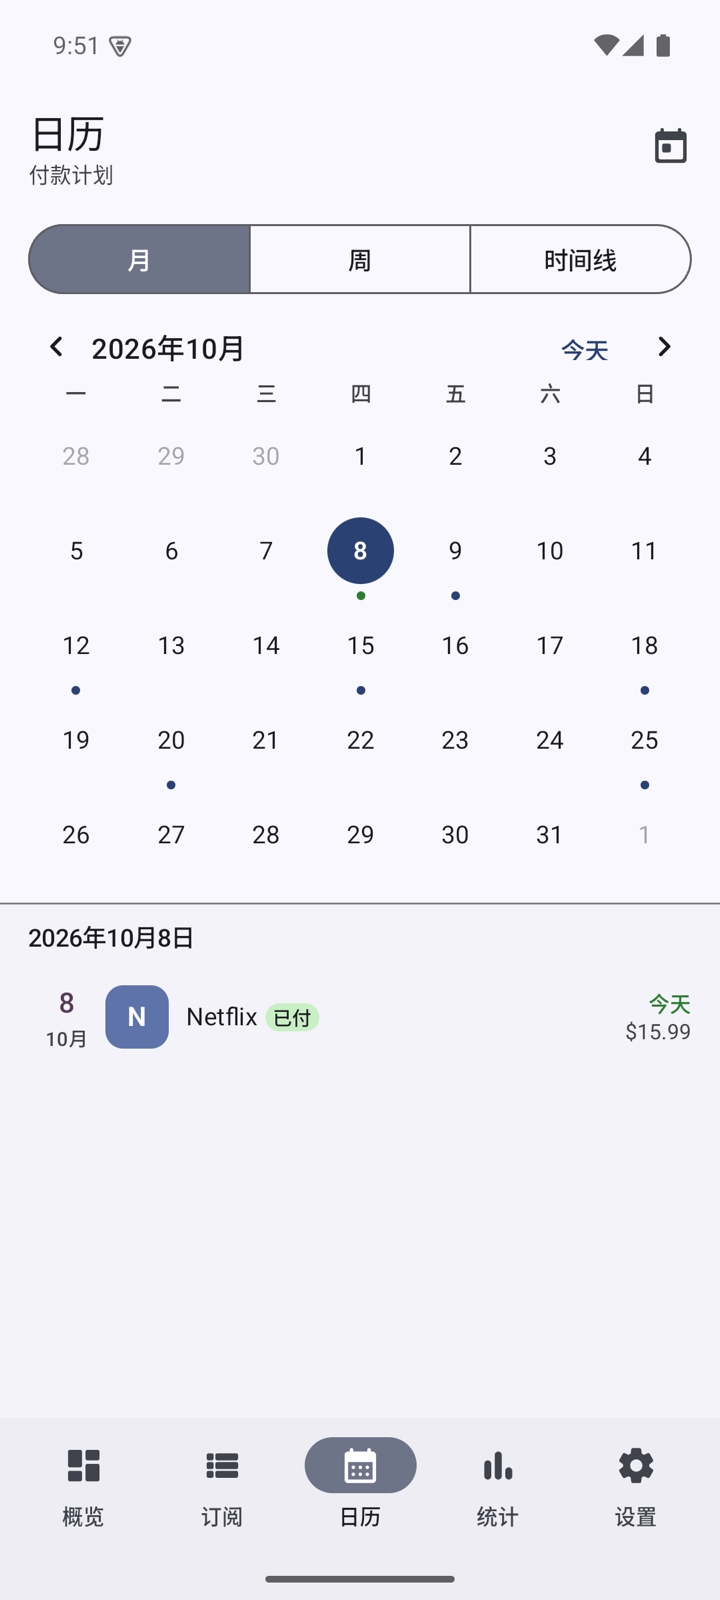
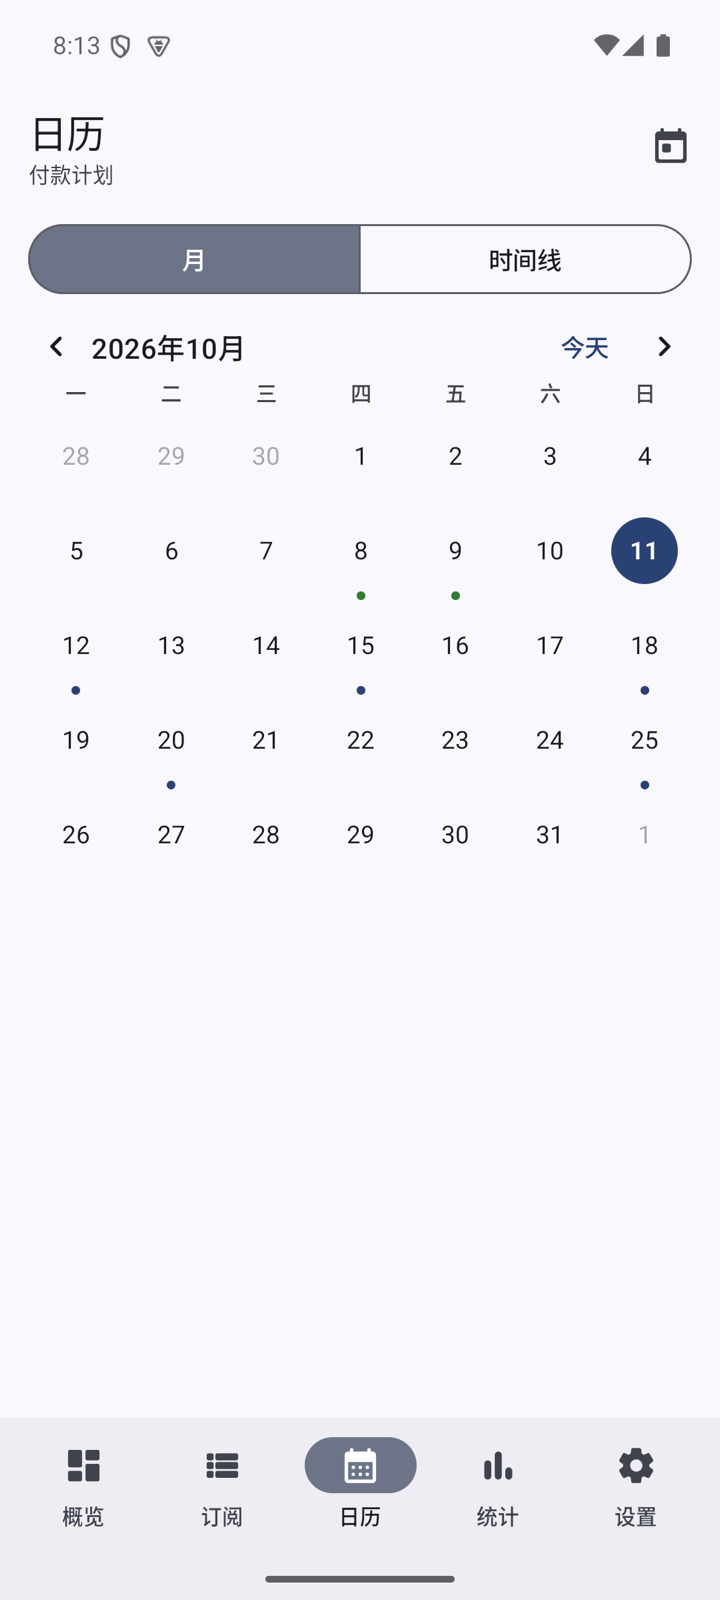
refactor(calendar): 移除周视图，修正「今天」按钮文字垂直居中
- 周视图被月视图完全覆盖，删除周模式及其设置项、文案与测试；已保存的周默认视图读取时回退为月视图
- 「今天」按钮去掉默认上下内边距，文字在 32dp 高度内居中
- README 与日历截图同步更新

diff --git a/feature/calendar/src/main/kotlin/io/github/submark/feature/calendar/ui/calendar/CalendarScreen.kt b/feature/calendar/src/main/kotlin/io/github/submark/feature/calendar/ui/calendar/CalendarScreen.kt
@@ -19,6 +19,7 @@ import androidx.compose.foundation.interaction.MutableInteractionSource
 import androidx.compose.foundation.layout.Arrangement
 import androidx.compose.foundation.layout.Box
 import androidx.compose.foundation.layout.Column
+import androidx.compose.foundation.layout.PaddingValues
 import androidx.compose.foundation.layout.Row
 import androidx.compose.foundation.layout.Spacer
 import androidx.compose.foundation.layout.fillMaxSize
@@ -188,37 +189,24 @@ private fun CalendarScreen(
                 label = { mode ->
                     when (mode) {
                         CalendarMode.MONTH -> stringResource(R.string.calendar_mode_month)
-                        CalendarMode.WEEK -> stringResource(R.string.calendar_mode_week)
                         CalendarMode.TIMELINE -> stringResource(R.string.calendar_mode_timeline)
                     }
                 },
             )
 
-            // Navigation row (prev/next/today) — shown for Month & Week
+            // Navigation row (prev/next/today) — month view only
             if (scenario.mode != CalendarMode.TIMELINE) {
                 PagerRow(
-                    anchorText = when (scenario.mode) {
-                        CalendarMode.MONTH -> DateLabels.formatYearMonth(scenario.anchorDate)
-                        CalendarMode.WEEK -> weekRangeLabel(scenario.anchorDate.startOfWeek())
-                        CalendarMode.TIMELINE -> ""
-                    },
+                    anchorText = DateLabels.formatYearMonth(scenario.anchorDate),
                     onPrevious = onPrevious,
                     onNext = onNext,
                     onToday = onToday,
                 )
             }
 
-            // Month grid and week strip keep their natural height; the selected day's agenda below takes the rest.
+            // The month grid keeps its natural height; the selected day's agenda below takes the rest.
             when (scenario.mode) {
                 CalendarMode.MONTH -> MonthGrid(
-                    scenario = scenario,
-                    byDate = nativeState.byDate,
-                    onSelectDate = onSelectDate,
-                    onPrevious = onPrevious,
-                    onNext = onNext,
-                    modifier = Modifier.fillMaxWidth(),
-                )
-                CalendarMode.WEEK -> WeekStrip(
                     scenario = scenario,
                     byDate = nativeState.byDate,
                     onSelectDate = onSelectDate,
@@ -240,7 +228,7 @@ private fun CalendarScreen(
                 )
             }
 
-            // Agenda for the selected day (Month and Week modes)
+            // Agenda for the selected day (month view)
             if (scenario.mode != CalendarMode.TIMELINE && nativeState.agenda.isNotEmpty()) {
                 AgendaStrip(
                     agenda = nativeState.agenda,
@@ -318,7 +306,12 @@ private fun PagerRow(
             maxLines = 1,
             overflow = TextOverflow.Ellipsis,
         )
-        TextButton(onClick = onToday, modifier = Modifier.height(32.dp)) {
+        // Zero vertical padding: the default 8dp would squeeze the label off-centre in a 32dp-tall button.
+        TextButton(
+            onClick = onToday,
+            modifier = Modifier.height(32.dp),
+            contentPadding = PaddingValues(horizontal = 12.dp),
+        ) {
             Text(stringResource(R.string.calendar_today), style = MaterialTheme.typography.labelLarge)
         }
         IconButton(onClick = onNext, modifier = Modifier.size(32.dp)) {
@@ -369,39 +362,6 @@ private fun MonthGrid(
 }
 
 @Composable
-private fun WeekStrip(
-    scenario: CalendarScenario,
-    byDate: Map<LocalDate, List<Occurrence>>,
-    onSelectDate: (LocalDate) -> Unit,
-    onPrevious: () -> Unit,
-    onNext: () -> Unit,
-    modifier: Modifier = Modifier,
-) {
-    Column(modifier = modifier.padding(horizontal = 16.dp)) {
-        WeekdayHeader()
-        SwipePager(
-            page = scenario.anchorDate.startOfWeek(),
-            onPrevious = onPrevious,
-            onNext = onNext,
-        ) { weekStart ->
-            Row(Modifier.fillMaxWidth()) {
-                (0L..6L).map(weekStart::plusDays).forEach { date ->
-                    DayCell(
-                        date = date,
-                        occurrences = byDate[date].orEmpty(),
-                        isSelected = date == scenario.selectedDate,
-                        isToday = date == scenario.today,
-                        isOutside = false,
-                        onSelect = { onSelectDate(date) },
-                        modifier = Modifier.weight(1f),
-                    )
-                }
-            }
-        }
-    }
-}
-
-@Composable
 private fun WeekdayHeader() {
     Row(Modifier.fillMaxWidth().padding(bottom = 4.dp)) {
         listOf(
@@ -422,7 +382,7 @@ private fun WeekdayHeader() {
 }
 
 /**
- * Hosts one month / week page: a horizontal swipe pages back or forward, and a page change slides in
+ * Hosts one month page: a horizontal swipe pages back or forward, and a page change slides in
  * from the side it came from (shared axis X, same rhythm as screen navigation).
  */
 @Composable
@@ -464,7 +424,7 @@ private fun <T : Comparable<T>> SwipePager(
 }
 
 /**
- * One day in the month grid or week strip: the date sits in a circle (filled when selected, outlined
+ * One day in the month grid: the date sits in a circle (filled when selected, outlined
  * for today) and up to three dots below mark that day's payments. The whole cell is tappable while the
  * ripple stays inside the circle.
  */
@@ -828,9 +788,6 @@ private fun AgendaStrip(
         }
     }
 }
-
-private fun weekRangeLabel(weekStart: LocalDate): String =
-    "${DateLabels.formatMonthDay(weekStart)} – ${DateLabels.formatMonthDay(weekStart.plusDays(6))}"
 
 @Preview(showBackground = true)
 @Composable

diff --git a/feature/calendar/src/main/kotlin/io/github/submark/feature/calendar/data/CalendarScenario.kt b/feature/calendar/src/main/kotlin/io/github/submark/feature/calendar/data/CalendarScenario.kt
@@ -11,7 +11,7 @@ import java.time.temporal.ChronoUnit
 data class CalendarScenario(
     val mode: CalendarMode,
     val timelinePeriod: TimelinePeriod,
-    /** First day of the visible month (MONTH) or week (WEEK). TIMELINE always starts today. */
+    /** First day of the visible month (MONTH). TIMELINE always starts today. */
     val anchorDate: LocalDate,
     val selectedDate: LocalDate,
     val today: LocalDate,
@@ -19,37 +19,34 @@ data class CalendarScenario(
     /** Date range whose occurrences should be loaded. */
     fun range(): Pair<LocalDate, LocalDate> = when (mode) {
         CalendarMode.MONTH -> YearMonth.from(anchorDate).let { it.atDay(1) to it.atEndOfMonth() }
-        CalendarMode.WEEK -> anchorDate to anchorDate.plusDays(6)
         CalendarMode.TIMELINE -> today to today.plusMonths(timelinePeriod.months().toLong())
     }
 
     fun withMode(mode: CalendarMode): CalendarScenario = copy(
         mode = mode,
-        anchorDate = mode.anchorFor(selectedDate),
+        anchorDate = selectedDate.withDayOfMonth(1),
     )
 
     fun withTimelinePeriod(period: TimelinePeriod): CalendarScenario = copy(timelinePeriod = period)
 
     fun select(date: LocalDate): CalendarScenario =
-        copy(selectedDate = date, anchorDate = mode.anchorFor(date))
+        copy(selectedDate = date, anchorDate = date.withDayOfMonth(1))
 
     fun previous(): CalendarScenario = when (mode) {
         CalendarMode.MONTH -> copy(anchorDate = anchorDate.minusMonths(1))
-        CalendarMode.WEEK -> copy(anchorDate = anchorDate.minusWeeks(1))
         CalendarMode.TIMELINE -> this
     }
 
     fun next(): CalendarScenario = when (mode) {
         CalendarMode.MONTH -> copy(anchorDate = anchorDate.plusMonths(1))
-        CalendarMode.WEEK -> copy(anchorDate = anchorDate.plusWeeks(1))
         CalendarMode.TIMELINE -> this
     }
 
     fun goToday(): CalendarScenario =
-        copy(anchorDate = mode.anchorFor(today), selectedDate = today)
+        copy(anchorDate = today.withDayOfMonth(1), selectedDate = today)
 
     fun jumpTo(date: LocalDate): CalendarScenario =
-        copy(anchorDate = mode.anchorFor(date), selectedDate = date)
+        copy(anchorDate = date.withDayOfMonth(1), selectedDate = date)
 }
 
 fun TimelinePeriod.months(): Int = when (this) {
@@ -58,10 +55,6 @@ fun TimelinePeriod.months(): Int = when (this) {
     TimelinePeriod.SIX_MONTHS -> 6
     TimelinePeriod.ONE_YEAR -> 12
 }
-
-/** First day of the page containing [date]: its week in WEEK mode, otherwise its month. */
-fun CalendarMode.anchorFor(date: LocalDate): LocalDate =
-    if (this == CalendarMode.WEEK) date.startOfWeek() else date.withDayOfMonth(1)
 
 fun LocalDate.startOfWeek(): LocalDate = minusDays(((dayOfWeek.value - java.time.DayOfWeek.MONDAY.value + 7) % 7).toLong())
 

diff --git a/feature/calendar/src/test/kotlin/io/github/submark/feature/calendar/CalendarScenarioTest.kt b/feature/calendar/src/test/kotlin/io/github/submark/feature/calendar/CalendarScenarioTest.kt
@@ -31,14 +31,6 @@ class CalendarScenarioTest {
     }
 
     @Test
-    fun `week range covers Monday to Sunday of the anchor`() {
-        // Anchor on a Wednesday.
-        val (from, to) = scenario(mode = CalendarMode.WEEK, anchor = LocalDate.of(2026, 10, 7)).range()
-        assertThat(from).isEqualTo(LocalDate.of(2026, 10, 7))
-        assertThat(to).isEqualTo(LocalDate.of(2026, 10, 13))
-    }
-
-    @Test
     fun `timeline range starts today and spans the period`() {
         val (from, to) = scenario(mode = CalendarMode.TIMELINE).range()
         assertThat(from).isEqualTo(today)
@@ -51,13 +43,6 @@ class CalendarScenarioTest {
         val next = scenario().next()
         assertThat(prev.anchorDate).isEqualTo(LocalDate.of(2026, 9, 1))
         assertThat(next.anchorDate).isEqualTo(LocalDate.of(2026, 11, 1))
-    }
-
-    @Test
-    fun `previous and next move the week anchor by one week`() {
-        val sc = scenario(mode = CalendarMode.WEEK, anchor = LocalDate.of(2026, 10, 5))
-        assertThat(sc.previous().anchorDate).isEqualTo(LocalDate.of(2026, 9, 28))
-        assertThat(sc.next().anchorDate).isEqualTo(LocalDate.of(2026, 10, 12))
     }
 
     @Test
@@ -75,16 +60,9 @@ class CalendarScenarioTest {
     }
 
     @Test
-    fun `goToday in week mode anchors on the current week`() {
-        val sc = scenario(mode = CalendarMode.WEEK, anchor = LocalDate.of(2026, 9, 28)).goToday()
-        assertThat(sc.anchorDate).isEqualTo(LocalDate.of(2026, 10, 5))
-        assertThat(sc.range().first).isAtMost(today)
-        assertThat(sc.range().second).isAtLeast(today)
-    }
-
-    @Test
-    fun `jumpTo in week mode anchors on that date's week`() {
-        val sc = scenario(mode = CalendarMode.WEEK).jumpTo(LocalDate.of(2026, 12, 25))
-        assertThat(sc.anchorDate).isEqualTo(LocalDate.of(2026, 12, 21))
+    fun `jumpTo anchors on that date's month`() {
+        val sc = scenario().jumpTo(LocalDate.of(2026, 12, 25))
+        assertThat(sc.anchorDate).isEqualTo(LocalDate.of(2026, 12, 1))
+        assertThat(sc.selectedDate).isEqualTo(LocalDate.of(2026, 12, 25))
     }
 }

diff --git a/core/data/src/test/kotlin/io/github/submark/core/data/AppSettingsSerializerTest.kt b/core/data/src/test/kotlin/io/github/submark/core/data/AppSettingsSerializerTest.kt
@@ -3,6 +3,7 @@ package io.github.submark.core.data
 import com.google.common.truth.Truth.assertThat
 import io.github.submark.core.data.settings.AppSettings
 import io.github.submark.core.data.settings.AppSettingsSerializer
+import io.github.submark.core.data.settings.CalendarMode
 import io.github.submark.core.data.settings.ComponentSetting
 import io.github.submark.core.data.settings.ModernOverviewComponent
 import io.github.submark.core.data.settings.SummaryPeriod
@@ -44,5 +45,12 @@ class AppSettingsSerializerTest {
         assertThat(read.overview.period).isEqualTo(SummaryPeriod.YEAR)
         assertThat(read.overview.modernComponents)
             .containsExactly(ComponentSetting(ModernOverviewComponent.COMING_UP, visible = false))
+    }
+
+    /** Week view was removed; a saved WEEK default falls back to the month view instead of failing to load. */
+    @Test fun removedWeekCalendarModeFallsBackToDefault() = runTest {
+        val json = """{"calendar":{"defaultMode":"WEEK"}}"""
+        val read = serializer.readFrom(ByteArrayInputStream(json.toByteArray()))
+        assertThat(read.calendar.defaultMode).isEqualTo(CalendarMode.MONTH)
     }
 }

diff --git a/feature/calendar/src/main/kotlin/io/github/submark/feature/calendar/ui/calendar/CalendarViewModel.kt b/feature/calendar/src/main/kotlin/io/github/submark/feature/calendar/ui/calendar/CalendarViewModel.kt
@@ -23,7 +23,6 @@ import io.github.submark.core.ui.format.UiText
 import io.github.submark.core.ui.util.SnackbarMessage
 import io.github.submark.feature.calendar.R
 import io.github.submark.feature.calendar.data.CalendarScenario
-import io.github.submark.feature.calendar.data.anchorFor
 import io.github.submark.feature.calendar.data.Occurrence
 import io.github.submark.feature.calendar.data.OccurrenceProjector
 import io.github.submark.feature.calendar.data.TimelineBucket
@@ -125,7 +124,7 @@ class CalendarViewModel @Inject constructor(
         return CalendarScenario(
             mode = s.calendar.defaultMode,
             timelinePeriod = s.calendar.timelinePeriod,
-            anchorDate = s.calendar.defaultMode.anchorFor(today),
+            anchorDate = today.withDayOfMonth(1),
             selectedDate = today,
             today = today,
         )

diff --git a/core/data/src/main/kotlin/io/github/submark/core/data/settings/SettingsEnums.kt b/core/data/src/main/kotlin/io/github/submark/core/data/settings/SettingsEnums.kt
@@ -21,7 +21,7 @@ import kotlinx.serialization.Serializable
 /** Default list style preference; [LAST_USED] restores [ListSettings.lastStyle]. */
 @Serializable enum class DefaultListStyle { LIST, GRID, LAST_USED }
 
-@Serializable enum class CalendarMode { MONTH, WEEK, TIMELINE }
+@Serializable enum class CalendarMode { MONTH, TIMELINE }
 
 @Serializable enum class TimelinePeriod { ONE_MONTH, THREE_MONTHS, SIX_MONTHS, ONE_YEAR }
 

diff --git a/feature/settings/src/main/kotlin/io/github/submark/feature/settings/ui/common/SettingsLabels.kt b/feature/settings/src/main/kotlin/io/github/submark/feature/settings/ui/common/SettingsLabels.kt
@@ -92,7 +92,6 @@ internal val DefaultListStyle.labelRes: Int
 internal val CalendarMode.labelRes: Int
     get() = when (this) {
         CalendarMode.MONTH -> R.string.settings_calendar_mode_month
-        CalendarMode.WEEK -> R.string.settings_calendar_mode_week
         CalendarMode.TIMELINE -> R.string.settings_calendar_mode_timeline
     }
 

diff --git a/README.md b/README.md
@@ -54,7 +54,7 @@
 ### 📊 概览、日历与统计
 
 - **概览**：本期支出、即将到来、未来 7 天付款计划、最近付款、钱包余额，模块可自由排序和开关；订阅与买断分开统计
-- **日历**：月视图 / 周视图 / 时间线三种模式，左右滑动翻页，彩色圆点标记付款日
+- **日历**：月视图与时间线两种模式，左右滑动翻月，彩色圆点标记付款日
 - **统计**：支出趋势、付款热力图、分类占比、多维度雷达图、储值卡统计
 - **全局搜索**：按名称、备注、标签查找任何订阅
 
